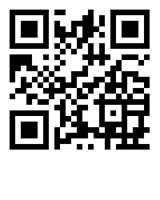
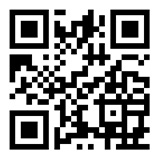
4k changes

diff --git a/qr-code.html b/qr-code.html
@@ -1,0 +1,159 @@
+<html>
+	<head>
+		<style>
+		button {
+	position: fixed;
+	right:2vw;
+	bottom: 2vw;
+	color:white;
+	width:160px;
+	height:40px;
+	background-color:#48B768;
+	border:none;
+	text-decoration: none;
+	outline: none;
+	z-index: 99;
+	font-size: 16px;
+	border-radius: 3px;
+}
+		
+button:hover{
+	background-color: #3D9656 ;
+}
+
+button img {
+	position:absolute;
+	top:5px;
+	left:14px;
+	height:30px;
+}
+
+
+#message-box {
+    /*display: none;*/
+    width: 200px;
+    height:0px;
+    text-align: center;
+    color: #fff;
+    font-weight: bold;
+    font-family: helvetica neue, arial;
+    position: fixed;
+    bottom: 0px;
+    right:0;
+	z-index: 98;
+	vertical-align: middle;
+    -webkit-transform-style: preserve-3d;
+}
+		
+/*#message-box img{
+	position: absolute;
+    display: none;
+	right:2vw;
+	bottom: 2vw;
+	width:160px;
+    height:200px;
+	margin: 0 auto;
+	padding: 0;
+	z-index: 98;
+    -webkit-transform-style: preserve-3d;
+
+}*/
+
+.QRcode {
+   /* display: none;*/
+    width: 160px;
+    height: 20px;
+    text-align: center;
+    color: #fff;
+    font-weight: bold;
+    font-family: helvetica neue, arial;
+    position: fixed;
+    bottom: 3vw;
+    right:2vw;
+    z-index: 99;
+    vertical-align: middle;
+    -webkit-transform-style: preserve-3d;
+}
+
+.slideAnimation {
+    -webkit-animation:slideUp 0.7s ease-out;
+    animation:slideUp 0.7s ease-out;
+    -webkit-animation-fill-mode: forwards;
+    animation-fill-mode: forwards;
+}
+
+.slideAnimationDown {
+    -webkit-animation:slideDown 0.5s linear;
+    animation:slideDown 0.5s linear;
+    -webkit-animation-fill-mode: forwards;
+    animation-fill-mode: forwards;
+}
+
+
+@-webkit-keyframes slideUp {
+     0% {  
+    height : 20px; 
+  }
+
+  25%{
+    bottom:1vw;
+  }
+
+    100% {  
+    height : 200px;
+    bottom:2vw; 
+  }
+}
+	
+
+@keyframes slideUp {
+     0% {  
+    height : 20px; 
+  }
+  25%{
+    bottom:1vw;
+  }
+    100% {  
+    height : 200px; 
+    bottom:2vw;
+  }
+}
+
+@-webkit-keyframes slideDown {
+     0% {  
+    height : 200px;
+    bottom:2vw; 
+  }
+    100% {  
+    height : 0px;
+    bottom:2vw; 
+  }
+}
+    
+
+@keyframes slideDown {
+     0% {  
+    height : 200px; 
+    bottom:2vw;
+  }
+    100% {  
+    height :0px; 
+    bottom:2vw;
+  }
+}
+
+
+		</style>
+		
+		<!-- Sign up Free button with QR Code -->
+<script src="https://ajax.googleapis.com/ajax/libs/jquery/1.11.2/jquery.min.js"></script>	
+	
+	</head>
+	<body>
+	<!-- Sign up Free button with QR Code -->
+<button><img src="img/google_256.png"/>&ensp;&ensp;Sign Up Free</button>
+<div id="message-box">
+    <img src="img/qrcode.png" class="QRcode"/></div>
+<script type="text/javascript" src="js/script.js"></script>
+	</body>
+</html>

diff --git a/css/main.css b/css/main.css
@@ -85,14 +85,14 @@ button {
 	right:2vw;
 	bottom: 2vw;
 	color:white;
-	width:160px;
-	height:40px;
+	width:8.2vw;
+	height:2.5vw;
 	background-color:#48B768;
 	border:none;
 	text-decoration: none;
 	outline: none;
 	z-index: 99;
-	font-size: 16px;
+	font-size: 1vw;
 	border-radius: 3px;
 }
 		
@@ -100,17 +100,14 @@ button:hover{
 	background-color: #3D9656 ;
 }
 
-button img {
-	position:absolute;
-	top:5px;
-	left:14px;
-	height:30px;
+.fa-google{
+	font-size: 24px;
 }
 
 
 #message-box {
     /*display: none;*/
-    width: 200px;
+    width: 10vw;
     height:0px;
     text-align: center;
     color: #fff;
@@ -140,14 +137,14 @@ button img {
 
 .QRcode {
    /* display: none;*/
-    width: 160px;
-    height: 20px;
+    width: 8.2vw;
+    height: 0vw;
     text-align: center;
     color: #fff;
     font-weight: bold;
     font-family: helvetica neue, arial;
     position: fixed;
-    bottom: 3vw;
+    bottom: 4.5vw;
     right:2vw;
     z-index: 99;
     vertical-align: middle;
@@ -171,58 +168,32 @@ button img {
 
 @-webkit-keyframes slideUp {
      0% {  
-    height : 20px; 
+    height : 2vw;
+	opacity: 0;
   }
 
   25%{
-    bottom:1vw;
+    bottom:4.5vw;
+	opacity: 1;
   }
 
     100% {  
-    height : 200px;
-    bottom:2vw; 
-  }
-}
-	
-
-@keyframes slideUp {
-     0% {  
-    height : 20px; 
-  }
-  25%{
-    bottom:1vw;
-  }
-    100% {  
-    height : 200px; 
-    bottom:2vw;
+    height : 8vw;
+    bottom:4.5vw; 
   }
 }
 
 @-webkit-keyframes slideDown {
      0% {  
-    height : 200px;
-    bottom:2vw; 
+    height : 8vw;
+    bottom:4.5vw; 
   }
     100% {  
     height : 0px;
-    bottom:2vw; 
+    bottom:4.5vw; 
   }
 }
     
-
-@keyframes slideDown {
-     0% {  
-    height : 200px; 
-    bottom:2vw;
-  }
-    100% {  
-    height :0px; 
-    bottom:2vw;
-  }
-}
-
-
-
 
 header {
     width: 100%;
@@ -844,11 +815,11 @@ h5 {
     float: none;
     left: 50%;
     margin-left: -40px;
-    min-height: 40px;
+    height:2.5vw;
     position: relative;
     text-align: center;
     top: 0;
-    width: 60px;
+    width: 3vw;
     z-index: 120;
     transition: all 0.3s ease-in-out;
 	background-color:#fff;

diff --git a/index.html b/index.html
@@ -116,9 +116,9 @@
 	
 
 	<!-- Sign up Free button with QR Code -->
-<button><img src="img/google_256.png"/>&ensp;&ensp;Sign Up Free</button>
+<button><i class="fa fa-google fa-lg"></i> Sign Up Free</button>
 <div id="message-box">
-    <img src="img/qrcode.png" class="QRcode"/></div>
+    <img src="img/qrcode.jpg" class="QRcode"/></div>
 </div>
 		
 

diff --git a/css/pinch-zoom.css b/css/pinch-zoom.css
@@ -45,4 +45,10 @@ div.pinch-zoom {
 div.pinch-zoom-container {
 	height:400px !important;
 }
-	
+
+@media (min-width: 2000px) {
+  div.pinch-zoom-container {
+	height:800px !important;
+}
+
+}	
